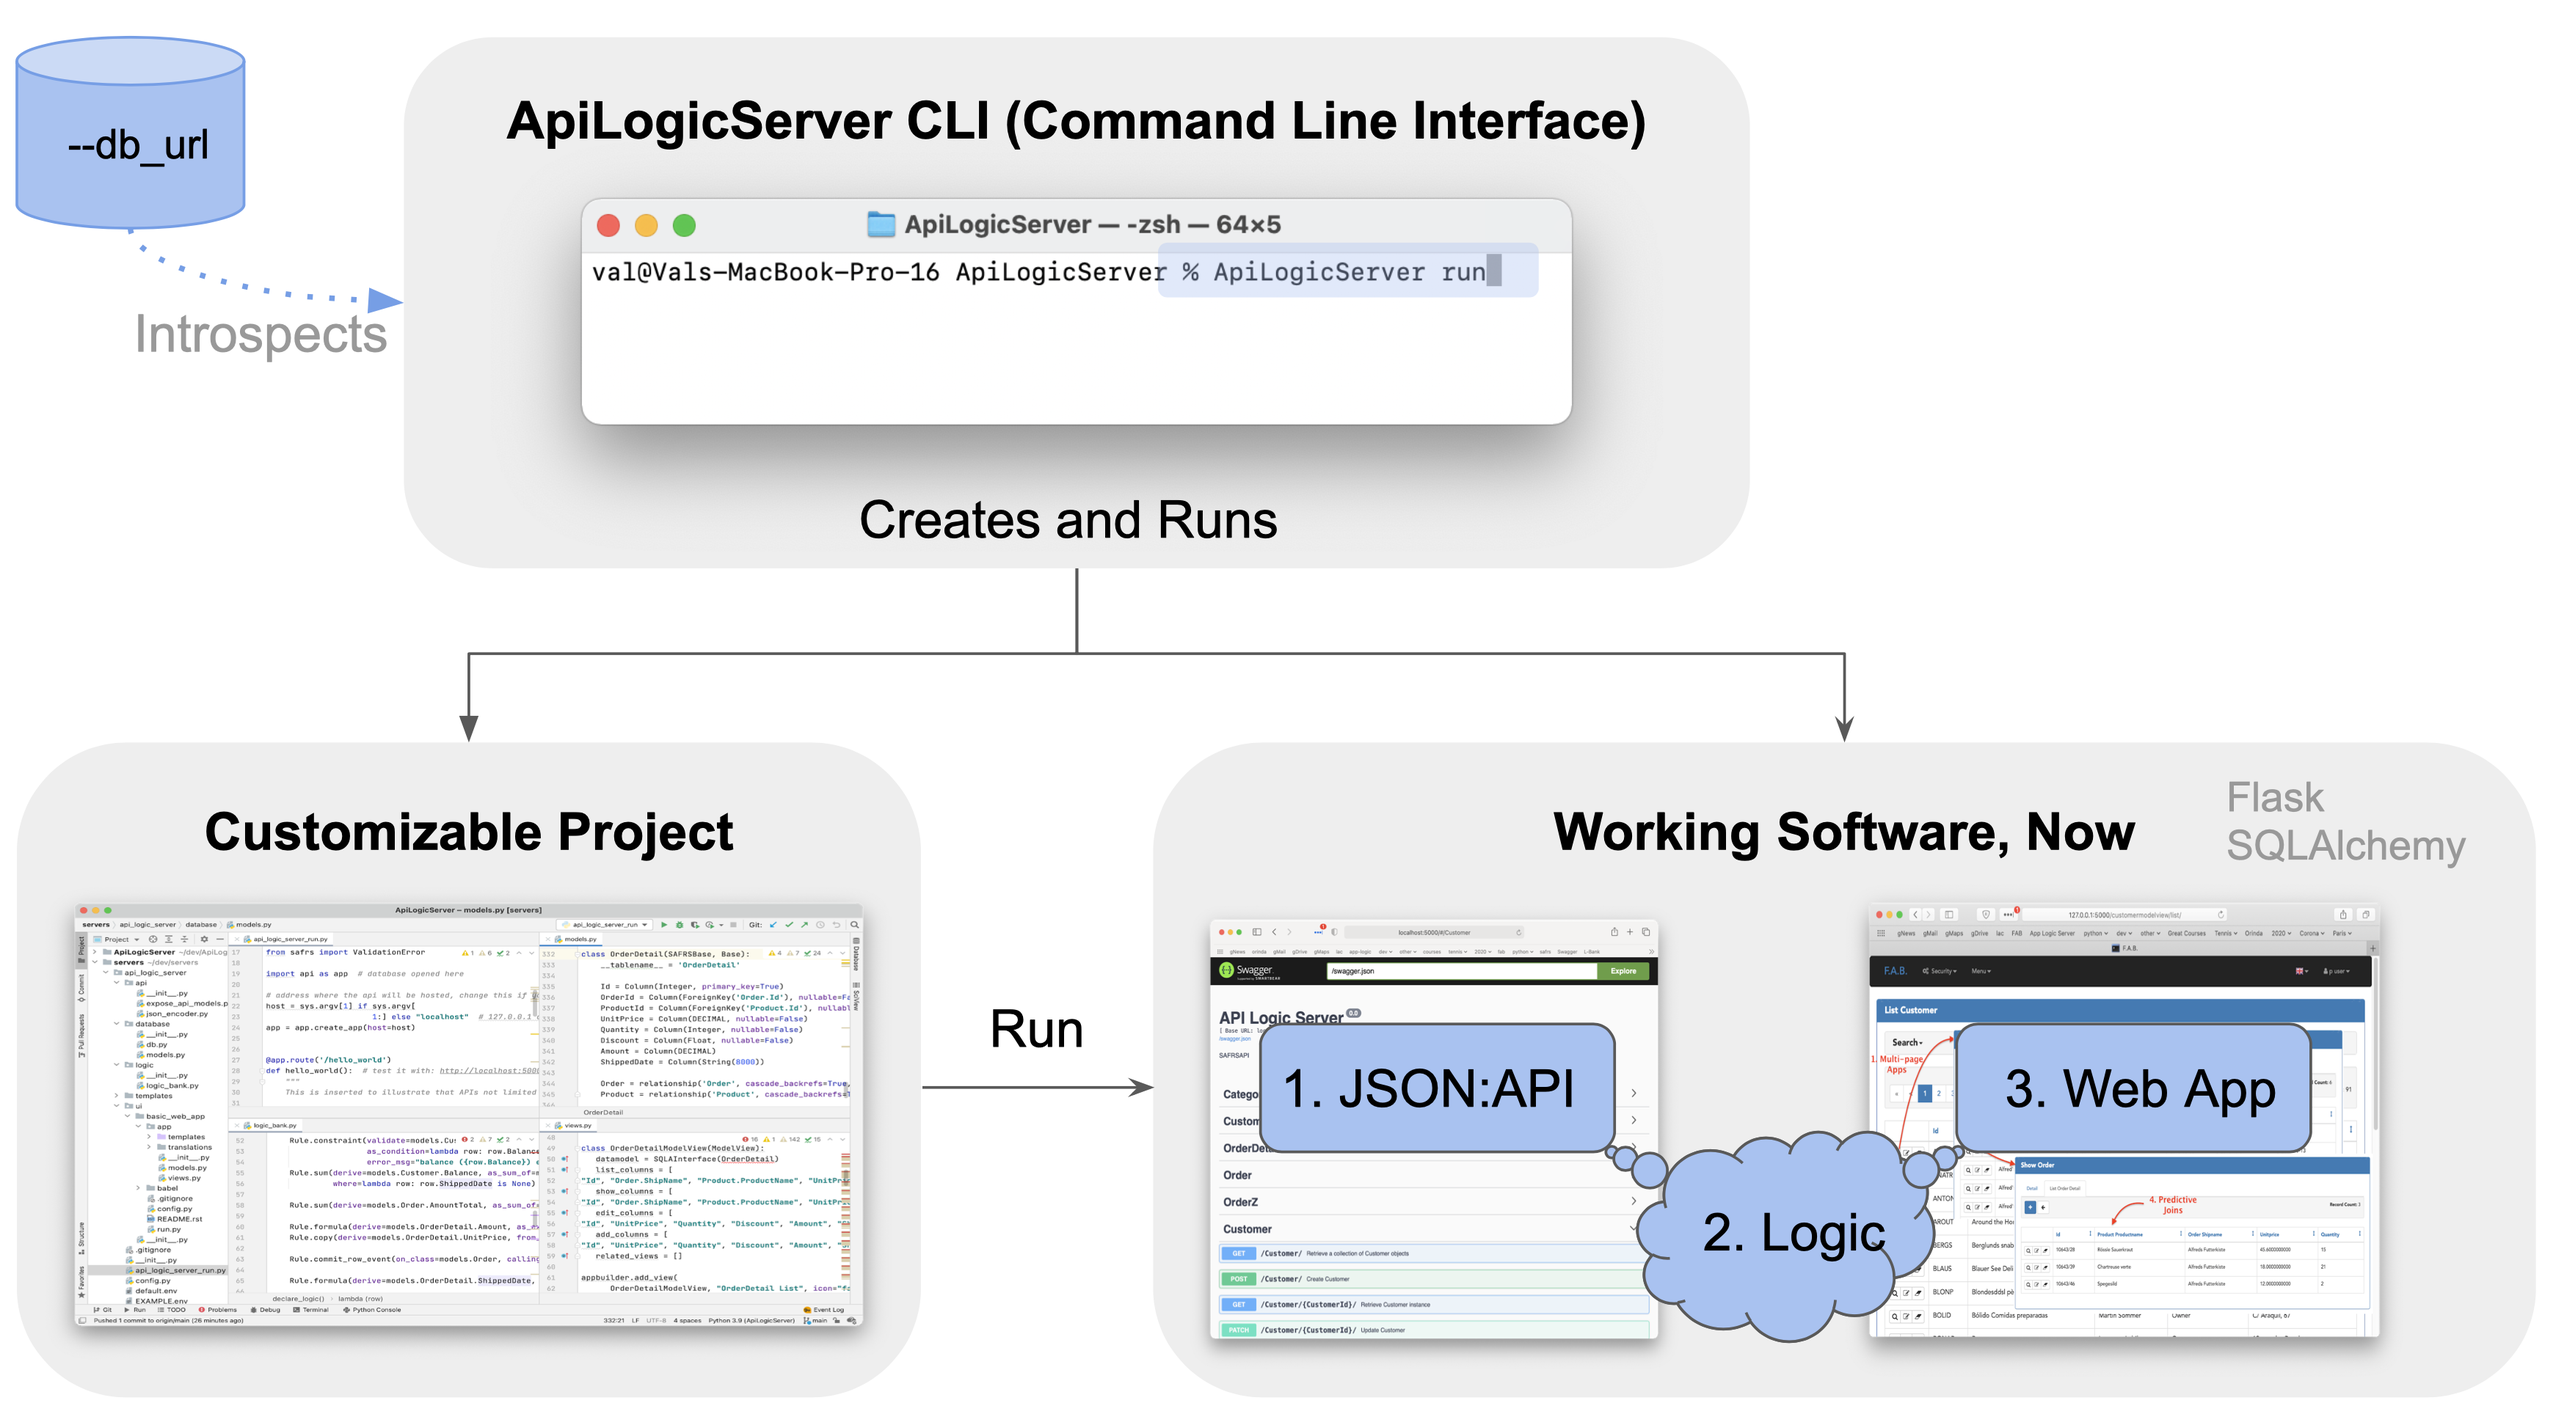
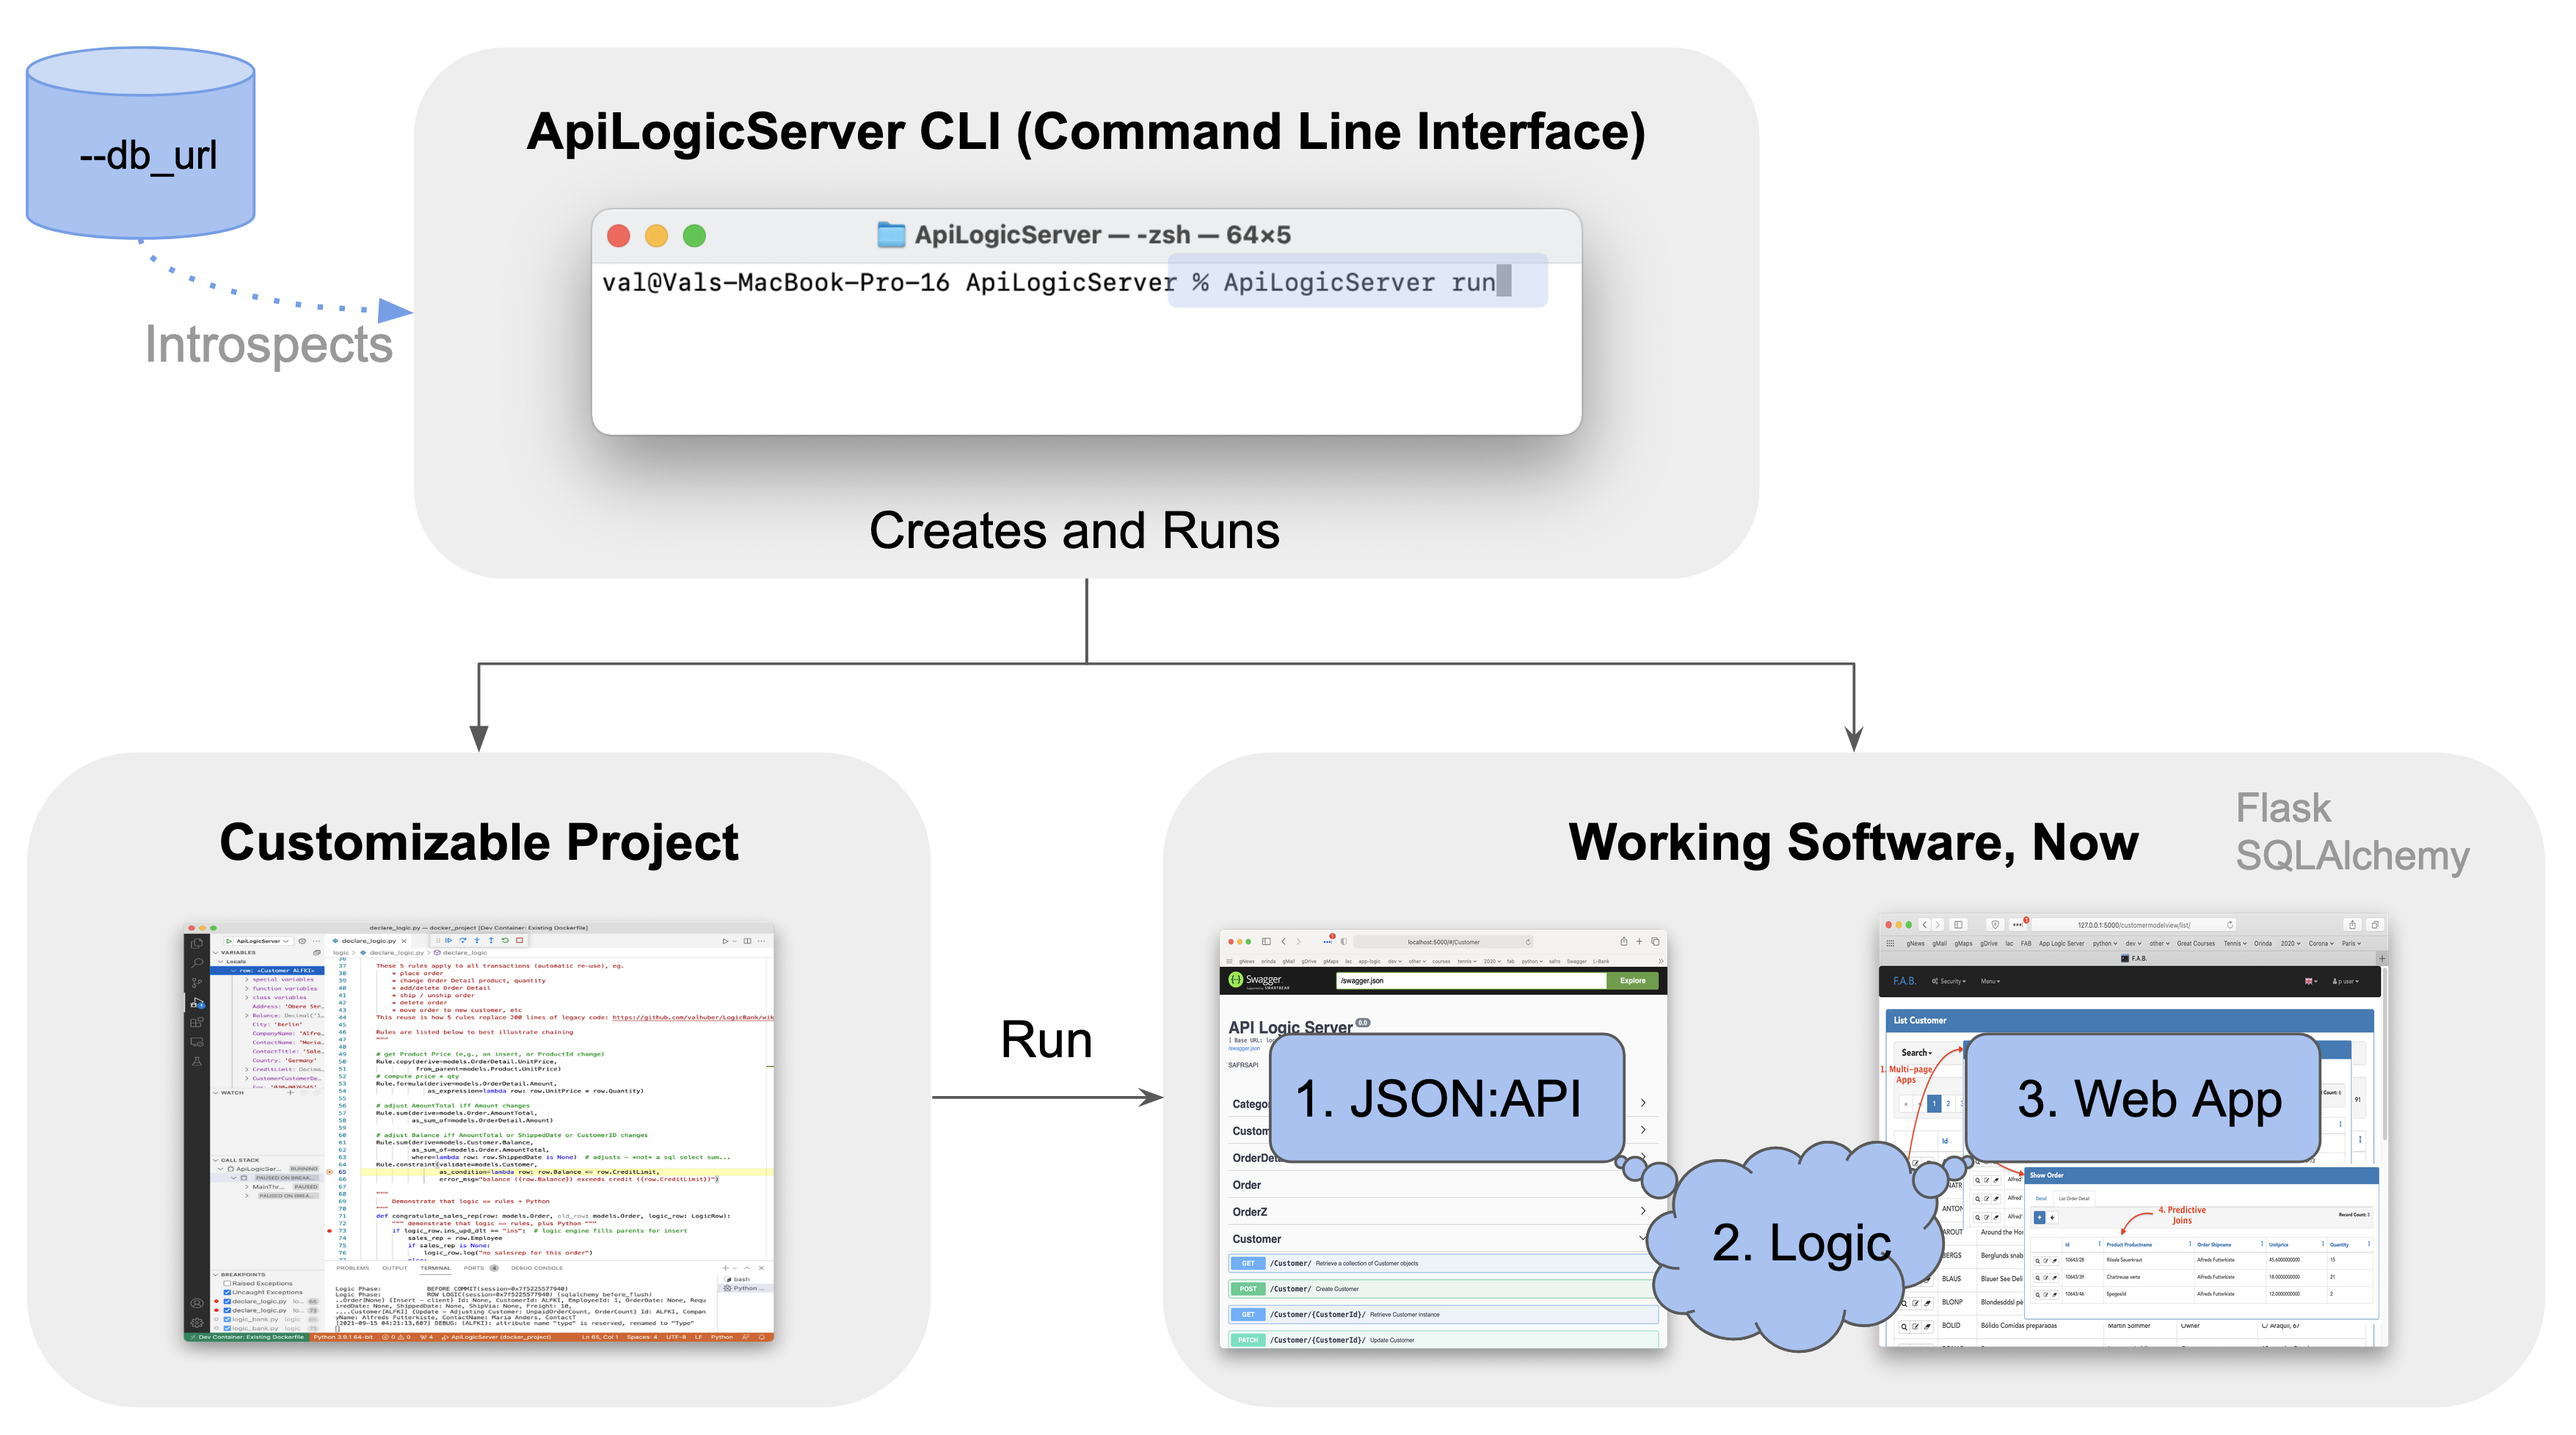
03.00.14: docs

diff --git a/README.md b/README.md
@@ -22,6 +22,10 @@ ApiLogicServer run --project_name=/local/servers/docker_project  # Create and ru
 
 After you've explored the [sample](https://github.com/valhuber/ApiLogicServer/wiki/Sample-Database) (e.g., find Swagger at [localhost:5000](http://localhost:5000)), try different databases: [connect to a Dockerized Databases](#connect-to-dockerized-databases), and then try your own database.
 
+You can picture the process like this:
+
+<figure><img src="https://github.com/valhuber/ApiLogicServer/raw/main/images/creates-and-runs.png"></figure>
+
 ### Feature Summary
 
 | Feature | Providing  | Why it Matters | Using
@@ -29,7 +33,7 @@ After you've explored the [sample](https://github.com/valhuber/ApiLogicServer/wi
 | 1. [JSON:**API** and Swagger](#api-safrs-jsonapi-and-swagger) | Endpoint for each table, with... <br>Filtering, pagination, related data | Unblock Client App Dev | [SAFRS](https://github.com/thomaxxl/safrs/wiki) |
 | 2. [Transactional **Logic**](#logic)| *Spreadsheet-like Rules* - **40X more concise** <br>Compare Check Credit with [legacy code](https://github.com/valhuber/LogicBank/wiki/by-code)  | Strategic Business Agility | [Logic Bank](https://github.com/valhuber/logicbank#readme) |
 | 3. [Basic **Web App**](#basic-web-app---flask-appbuilder) | Instant **multi-page, multi-table** web app | Engage Business Users<br>Back-office Admin | [Flask App Builder](https://flask-appbuilder.readthedocs.io/en/latest/), <br>[fab-quickstart](https://github.com/valhuber/fab-quick-start/wiki) |
-| 4. [**Customizable**](#created-project---customizable-re-runnable) | Custom Data Model, Endpoints, Logic | Customize and run <br>Re-creation *not* required | PyCharm <br> VS Code ... |
+| 4. [**Customizable**](#customizable-project---re-runnable) | Custom Data Model, Endpoints, Logic | Customize and run <br>Re-creation *not* required | PyCharm <br> VS Code ... |
 | 5. Model Creation | Python-friendly ORM | Custom Data Access<br>Used by API and Basic Web App | [SQLAlchemy](https://docs.sqlalchemy.org/en/14/core/engines.html) |
 
 ### Tutorials
@@ -57,54 +61,68 @@ and can be [installed](#Installation) and customized with standard approaches as
 
 
 # Architectural Overview
-The ApiLogicServer docker image contains:
-1. The **CLI** (Command Language Interface) to create projects
-2. The various **runtimes** (API, Logic, Flask App Builder to execute projects
-3. A **Python** environment to support execution, and your IDE
 
-### ApiLogicServer CLI
-With a single command, create and run a
-[logic](#logic)-enabled
-[JSON:API](#api-safrs-jsonapi-and-swagger) and
-[web app](#basic-web-app---flask-appbuilder) for your database:
+As shown below, there are typically 2-3 "machines" in operation:
+* Your local machine (in grey), where the Customizable Project files (`docker_project`) are stored 
 
-<figure><img src="https://github.com/valhuber/ApiLogicServer/raw/main/images/creates-and-runs.png"></figure>
 
-As illustrated above, you run the ApiLogicServer CLI to create and optionally run a project:
-```
-ApiLogicServer run        # see console log, below
-```
+* The ApiLogicServer Docker (blue), which contains
+  * The **CLI** (Command Language Interface) to create projects
+  * The various **Runtimes** (API, Logic, Flask App Builder to execute projects
+  * A **Python** environment to support execution, and development using your IDE
 
-The CLI provides a number of options you can discover with ```ApiLogicServer --help```.
-In particular:
+
+* The database (purple)can run as a separate Docker image, in your local machine, or (for the demo) within the ApiLogicServer docker image
+<figure><img src="https://raw.githubusercontent.com/valhuber/ApiLogicServer/main/images/docker/docker-arch.png"></figure>
+
+<details>
+  <summary>Alternative option: pip install</summary>
+
+You can also run ApiLogicServer without Docker.  The familiar `pip install ApiLogicServer` creates the ApiLogicServer in your `venv` instead of the Docker machine.
+
+We recommend, however, that you take a good look at Docker:
+* It avoids a sometimes-tricky Python install
+* It isolates your projects into containers
+* It is quite likely the eventual deployment architecture, so you're already in step with that
+</details>
+
+# Usage Overview
+
+Let's review the 4 steps shown above:
+1. Install
+2. Create
+3. Customize
+4. Run
+
+### 1. Install
+Once you've installed Docker, the `docker run` command above installs the ApiLogicServer docker (if it's not already there), and starts it, opening a terminal window on the Docker machine
+
+
+### 2. Create
+In this step, you are using the ApiLogicServer CLI to create and optionally run your project.  There are 2 alternatives.
+
+##### Run (Create and Run)
+The ```ApiLogicServer run``` command creates your project, and runs the server (verify with swagger).  You can use `--help` to see arguments; In particular:
+
 1. The ```-db_url``` parameter defaults to a supplied [sample database](https://github.com/valhuber/ApiLogicServer/wiki/Sample-Database).
 
-   * Specify a [SQLAlchemy url](https://docs.sqlalchemy.org/en/14/core/engines.html)
-to use your own database.
+   * Specify a [SQLAlchemy url](https://docs.sqlalchemy.org/en/14/core/engines.html) to use your own database.
    
 
 2. By default, the project name (directory) is ```api_logic_server```- override it with the
-```-project_name``` option.
+```--project_name``` option.
 
 
 3. Discover other options with ```ApiLogicServer run --help```
 
-Use the `run` command to create and run your project, or the `create` command to just create it.
 
+##### Create
 
-### Created Project - Customizable, Re-runnable
+You can also just create the project with `ApiLogicServer create`.  It provides the same arguments.
 
-You can execute the project *(without recreating it)* with the **Docker** terminal window:
+### 3. Customize
 
-```
-python api_logic_server_run.py  # run the API Server - test with cURL, Swagger
-python ui/basic_web_app/run.py  # run the Basic Web App (help for command args)
-```
-
-> **Key Takeaway:** you do **not** need to repeat the `ApiLogicServer run` command to restart the server.
-
-
-You will probably prefer to open your project with your IDE.  The created project is a standard Python project, fully customizable using your existing IDE and other development tools (e.g., git).  Open the created project folder (it's on your local machine, not the Docker machine), configure as described in [Working with IDEs](https://github.com/valhuber/ApiLogicServer/wiki/Working-with-IDEs), and use your IDE.
+The created project is a standard Python project, fully customizable using your existing IDE and other development tools (e.g., git).  Open the created project folder (it's on your local machine, not the Docker machine), configure as described in [Working with IDEs](https://github.com/valhuber/ApiLogicServer/wiki/Working-with-IDEs), and use your IDE.
 
 * Significantly, you can utilize the Python environment from the Docker machine, _eliminating the need to install and configure Python_
 
@@ -122,8 +140,7 @@ The sample project provides an excellent opportunity to study one of *key differ
 Typical [customizations](https://github.com/valhuber/ApiLogicServer/wiki/ApiLogicServer-Guide) include
 (explore the default sample database to see examples):
 
-* **Customize API:** edit ```api/expose_services.py``` to define your own endpoints,
-  complementing those created from the model
+* **Customize API:** edit ```api/expose_services.py``` to define your own endpoints, complementing those created from the model
   
 
 * **Customize Model:** edit ```models_ext.py```, for example
@@ -132,12 +149,29 @@ Typical [customizations](https://github.com/valhuber/ApiLogicServer/wiki/ApiLogi
 
 
 * **Customize Logic:** edit ```models/declare_logic.py``` (initially empty) to declare logic
-    * The default sample database project contains some simple rules you can review;
+    * As shown above, the default sample database project contains some simple rules you can explore;
   learn more about rules in the [Logic Bank](https://github.com/valhuber/LogicBank)
     
+### 4. Run
 
+Whether you ran the project or just created it, you still have a project on your local file system.
+You can execute the project *(without recreating it)* with your IDE, or with the **Docker** terminal window.
+
+> **Key Takeaway:** you do **not** need to repeat the `ApiLogicServer run` command to restart the server.
+
+##### Using your IDE
+Use the pre-configured launch configurations to run either the server, or the basic web app.
+
+##### From the Docker Terminal window
+You can also run directly from the **Docker** Terminal window:
+
+```
+python api_logic_server_run.py  # run the API Server - test with cURL, Swagger
+python ui/basic_web_app/run.py  # run the Basic Web App (help for command args)
+```
 
 # Features
+Let's take a closer look at what the created project provides.
 
 ### API: SAFRS JSON:API and Swagger
 
